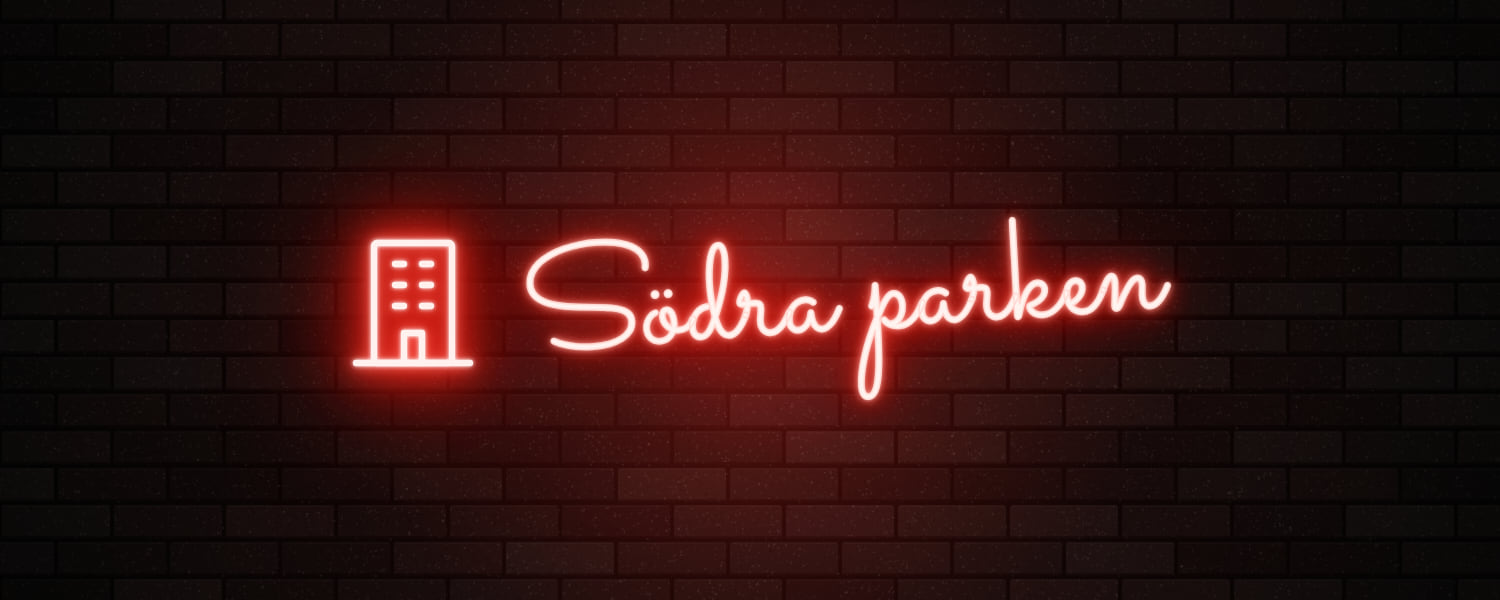
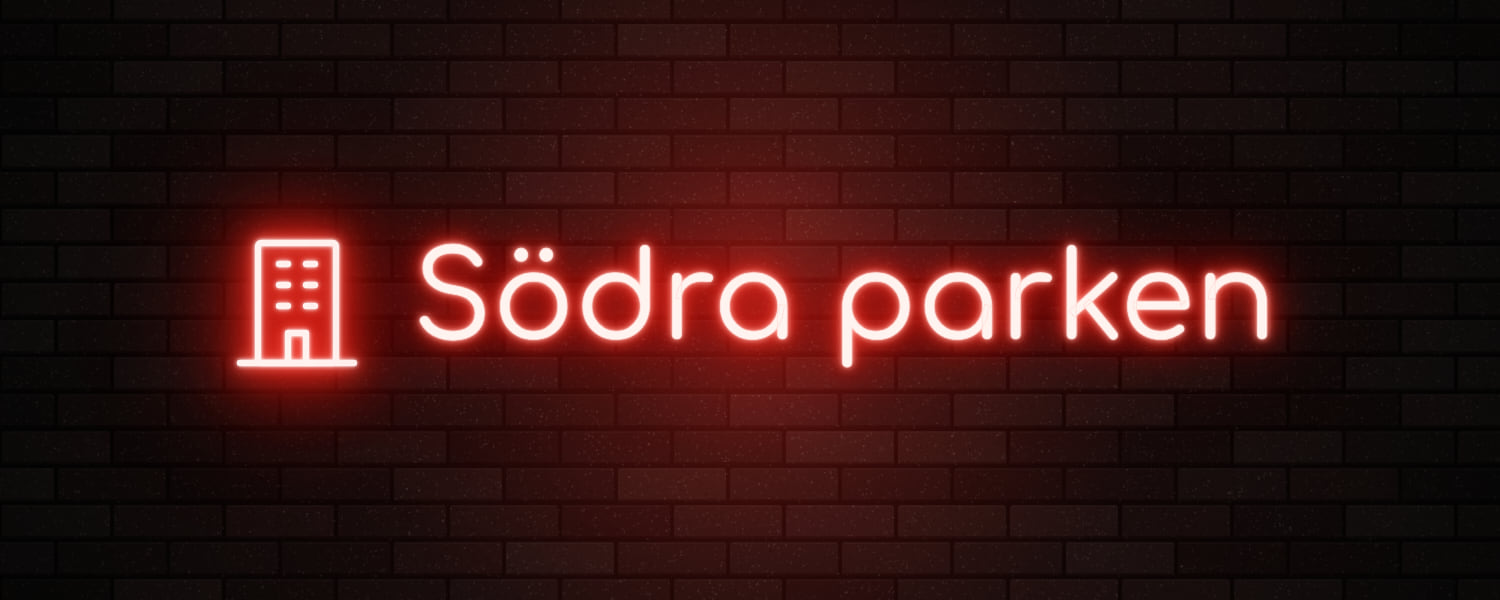
Byt typsnitt på neonskyltarna till Comfortaa
Sacramento kändes för vild på omslagen. Comfortaa är rundat och lika
tunt som ikonerna, så texten ser ut som samma neonrör men blir lugnare
och lättare att läsa. Texten står nu rakt i stället för snett.

Claude-Session: https://claude.ai/code/session_01JazH8N3CgaVGE5jCFKESnZ

Changed region(s): [[0.1227, 0.3, 0.8587, 0.72]]

diff --git a/verktyg/render.js b/verktyg/render.js
@@ -17,13 +17,13 @@ const KORT = { dir: 'kort', w: 600, h: 380, brick: 74, sw: 4.6 };
 // text: skylten, size: textens storlek, icon och iconsize: ikonen (se ICONS i neon.html),
 // seed: tegelmönstret, gap: avståndet mellan ikon och text.
 const jobs = [
-  { name: 'hubb', ...OMSLAG, text: 'Hubb', size: 170, icon: 'compass', iconsize: 150, seed: 11, gap: 34 },
-  { name: 'pinteg', ...OMSLAG, text: 'Pinteg', size: 165, icon: 'shield', iconsize: 150, seed: 12, gap: 34 },
-  { name: 'studier', ...OMSLAG, text: 'Studier', size: 165, icon: 'cap', iconsize: 160, seed: 13, gap: 30 },
-  { name: 'brf', ...OMSLAG, text: 'Södra parken', size: 145, icon: 'building', iconsize: 150, seed: 14, gap: 34 },
-  { name: 'sidoprojekt', ...OMSLAG, text: 'Sidoprojekt', size: 150, icon: 'rocket', iconsize: 150, seed: 15, gap: 30 },
-  { name: 'ekonomi', ...OMSLAG, text: 'Ekonomi', size: 165, icon: 'chart', iconsize: 150, seed: 16, gap: 34 },
-  { name: 'hem', ...OMSLAG, text: 'Hem', size: 175, icon: 'home', iconsize: 150, seed: 17, gap: 30 },
+  { name: 'hubb', ...OMSLAG, text: 'Hubb', size: 150, icon: 'compass', iconsize: 150, seed: 11, gap: 40 },
+  { name: 'pinteg', ...OMSLAG, text: 'Pinteg', size: 140, icon: 'shield', iconsize: 150, seed: 12, gap: 40 },
+  { name: 'studier', ...OMSLAG, text: 'Studier', size: 140, icon: 'cap', iconsize: 160, seed: 13, gap: 36 },
+  { name: 'brf', ...OMSLAG, text: 'Södra parken', size: 120, icon: 'building', iconsize: 150, seed: 14, gap: 40 },
+  { name: 'sidoprojekt', ...OMSLAG, text: 'Sidoprojekt', size: 120, icon: 'rocket', iconsize: 150, seed: 15, gap: 36 },
+  { name: 'ekonomi', ...OMSLAG, text: 'Ekonomi', size: 135, icon: 'chart', iconsize: 150, seed: 16, gap: 40 },
+  { name: 'hem', ...OMSLAG, text: 'Hem', size: 150, icon: 'home', iconsize: 150, seed: 17, gap: 36 },
   { name: 'pinteg', ...KORT, icon: 'shield', iconsize: 170, seed: 21 },
   { name: 'studier', ...KORT, icon: 'cap', iconsize: 180, seed: 22 },
   { name: 'brf', ...KORT, icon: 'building', iconsize: 170, seed: 23 },

diff --git a/verktyg/neon.html b/verktyg/neon.html
@@ -4,14 +4,14 @@
 <meta charset="utf-8">
 <title>Neon</title>
 <style>
-@font-face{font-family:"Sacramento";src:url("../fonts/sacramento-latin-400-normal.woff2") format("woff2");}
+@font-face{font-family:"Comfortaa";src:url("../fonts/comfortaa-latin-400-normal.woff2") format("woff2");}
 html,body{margin:0;background:#000}
 #stage{position:relative;overflow:hidden}
 canvas{position:absolute;inset:0}
 #glow{position:absolute;inset:0;pointer-events:none}
 #sign{position:absolute;inset:0;display:flex;align-items:center;justify-content:center;gap:var(--gap,40px)}
-.word{font-family:"Sacramento",cursive;color:#fff3f0;white-space:nowrap;line-height:1;
-  -webkit-text-stroke:var(--stroke,1.4px) #ffd9d2;
+.word{font-family:"Comfortaa",sans-serif;letter-spacing:.01em;color:#fff3f0;white-space:nowrap;line-height:1;
+  -webkit-text-stroke:var(--stroke,0.6px) #ffd9d2;
   text-shadow:
     0 0 2px #fff,
     0 0 6px #ffb3a8,
@@ -130,11 +130,13 @@ if (TEXT) {
   const el = document.createElement('div');
   el.className = 'word';
   el.style.fontSize = SIZE + 'px';
-  el.style.transform = 'translateY(' + (+q.get('ty') || 0) + 'px) rotate(' + (+q.get('rot') || -4) + 'deg)';
+  el.style.transform = 'translateY(' + (+q.get('ty') || 0) + 'px) rotate(' + (+q.get('rot') || 0) + 'deg)';
   el.textContent = TEXT;
   sign.appendChild(el);
 }
-document.fonts.ready.then(() => { document.body.dataset.ready = '1'; });
+document.fonts.load(SIZE + 'px "Comfortaa"', TEXT || 'a')
+  .then(() => document.fonts.ready)
+  .then(() => { document.body.dataset.ready = '1'; });
 </script>
 </body>
 </html>

diff --git a/README.md b/README.md
@@ -10,7 +10,7 @@ https://ka8542fo-s-blip.github.io/hubb/ och Notion hämtar dem därifrån.
 | `omslag/` | Sidomslag (1500 × 600) till Hubb och de sex områdena |
 | `kort/` | Bilder till galleriet Områden (600 × 380) |
 | `widgets/` | HTML-widgets som bäddas in i Notion med embed-block |
-| `fonts/` | Inter, Bebas Neue och Sacramento, alla under SIL Open Font License 1.1 |
+| `fonts/` | Inter, Bebas Neue och Comfortaa, alla under SIL Open Font License 1.1 |
 | `verktyg/` | Skriptet som ritar omslag, kort och fokustimerns bakgrund |
 
 ## Widgets
@@ -38,7 +38,7 @@ Terminen i `tid.html` är HT26, 31 augusti 2026 till 17 januari 2027. Lägg in n
 
 ## Nya omslag och kort
 
-`verktyg/neon.html` ritar tegelväggen, neontexten och ikonen. `verktyg/render.js` sparar bilderna som JPEG i `omslag/`, `kort/` och `widgets/`. Ändra eller lägg till en rad i `jobs` i render.js och kör från repots rot:
+`verktyg/neon.html` ritar tegelväggen, neontexten (typsnittet Comfortaa) och ikonen. `verktyg/render.js` sparar bilderna som JPEG i `omslag/`, `kort/` och `widgets/`. Ändra eller lägg till en rad i `jobs` i render.js och kör från repots rot:
 
 ```
 npm install --no-save playwright sharp
